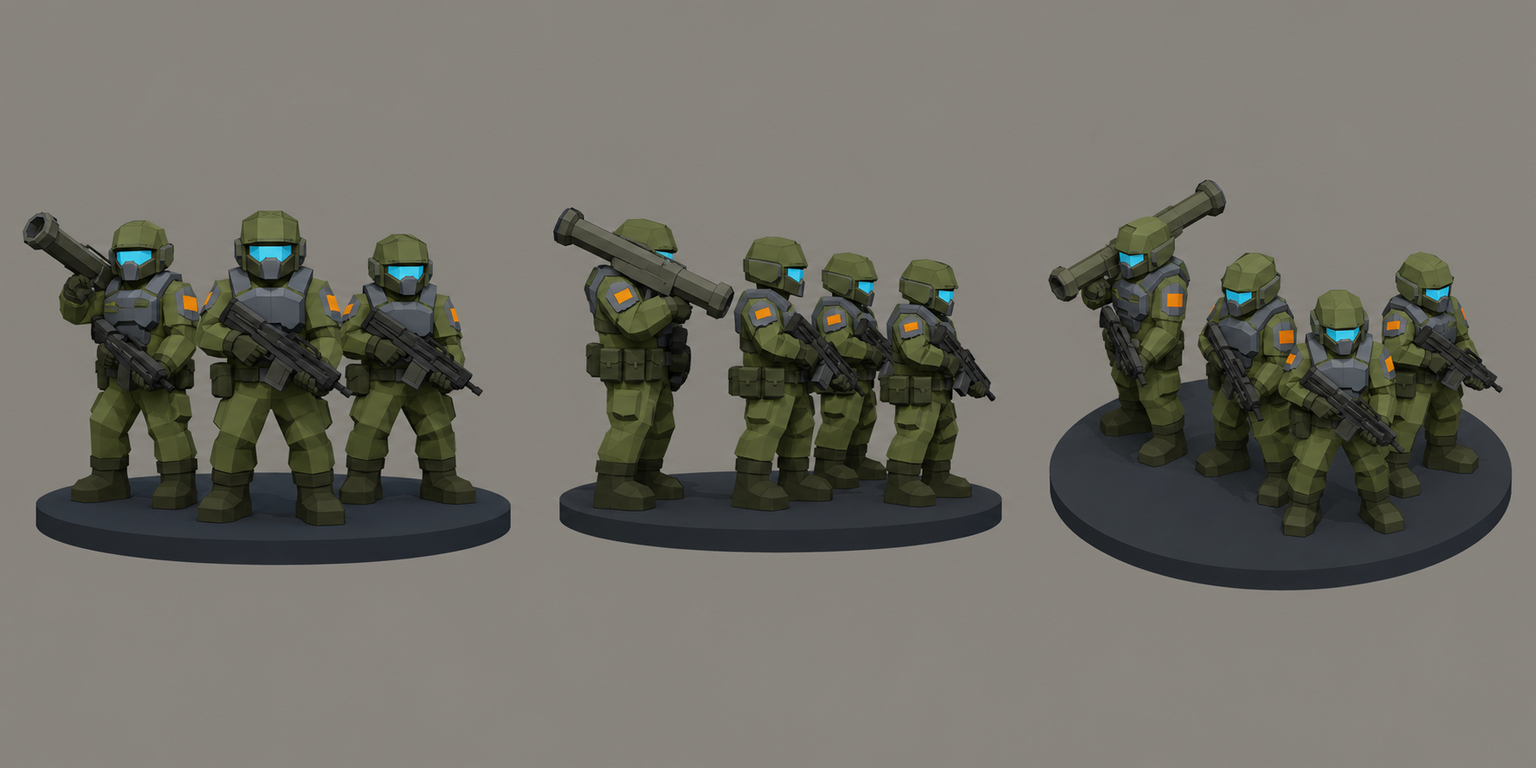
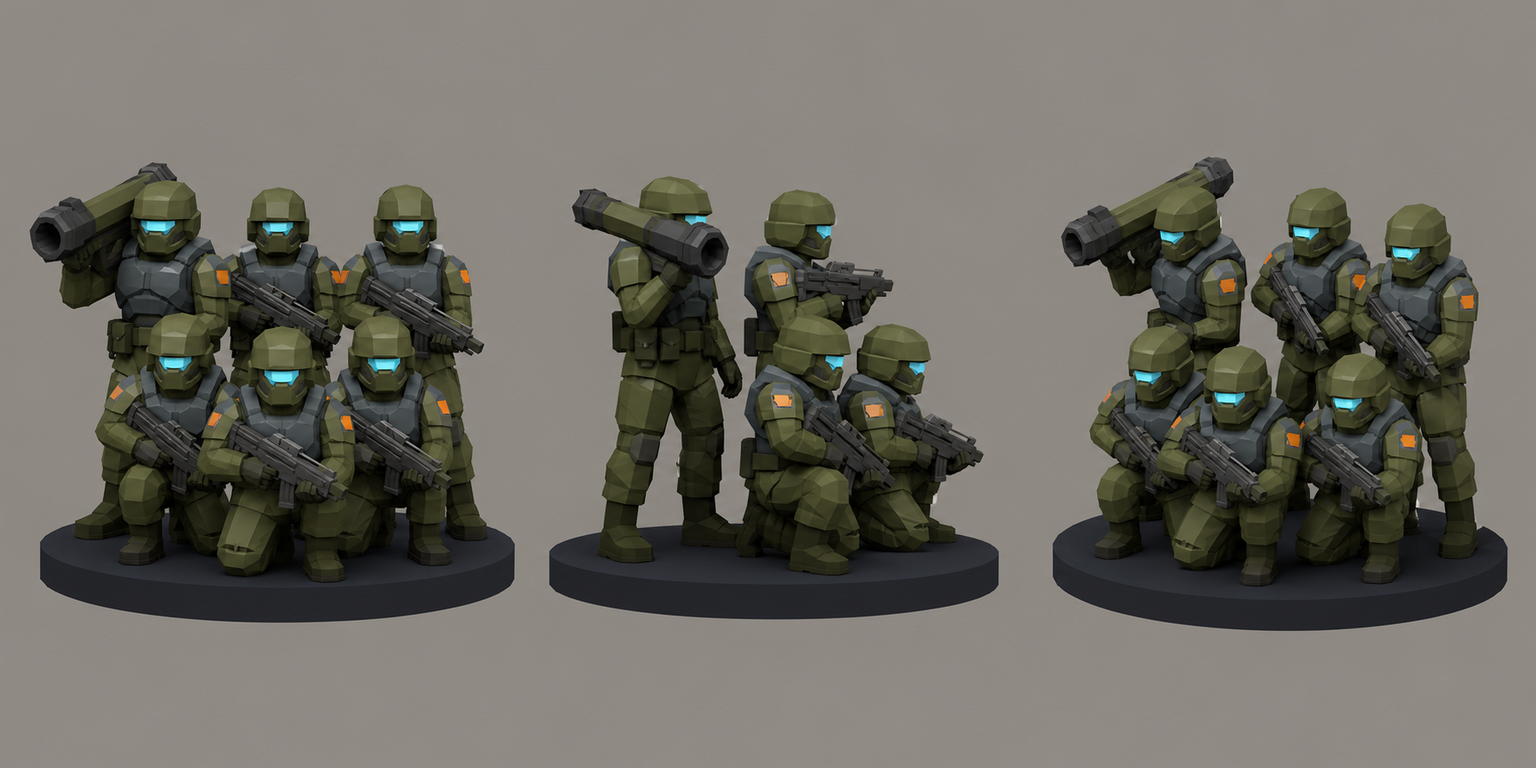
docs(art): regenerate infantry squad concept with kneeling front rank (#3)
Claude-Session: https://claude.ai/code/session_01H6iXQwxFz21caJkeThu5ff

diff --git a/docs/design/concepts/infantry-squad.md b/docs/design/concepts/infantry-squad.md
@@ -10,15 +10,15 @@
 ## Prompt
 
 ```
-Concept sheet for a TDF infantry squad token from a near-future Earth turn-based tactics game: five small soldiers standing together on one thin round base disc, arranged in a loose wedge with the leader front centre. Practical military kit: big helmets with small visors, body armour, rifles held ready; one soldier carries a long rocket launcher over the shoulder. Uniforms olive #6B7A3F with dark olive #45502A webbing and boots, armour plates cool grey #5B6573, tiny orange #F08A24 shoulder markings, visors #7FD1FF, base disc dark grey #2E3440. Chunky readable proportions, oversized helmets, no facial detail. Low-poly game model style, flat shading, hard edges, clean vector-like fills with no gradients or noise, plain neutral grey background #8E8A82, no text, no labels, no watermark, no logos. Wide landscape concept sheet showing the same design three times side by side: front view, side view, and isometric three-quarter view from 35 degrees above.
+Concept sheet for a TDF infantry squad token from a near-future Earth turn-based tactics game. Exactly five small soldiers stand together on one thin round dark base disc: two soldiers kneeling in the front row, three standing in the back row, arranged as a tight wedge with the leader front centre. Count carefully: five helmets, five rifles or launchers, one base disc. Practical military kit: big helmets with small cyan visors, body armour, rifles held ready; the back-left soldier carries a long rocket launcher over the shoulder. Uniforms olive #6B7A3F with dark olive #45502A webbing and boots, armour plates cool grey #5B6573, tiny orange #F08A24 shoulder markings, visors #7FD1FF, base disc dark grey #2E3440. Chunky readable proportions, oversized helmets, no facial detail. Low-poly game model style, flat shading, hard edges, clean vector-like fills with no gradients or noise, plain neutral grey background #8E8A82, no text, no labels, no watermark, no logos. Wide landscape concept sheet showing the same five-soldier group three times side by side: front view, side view, and isometric three-quarter view from 35 degrees above.
 ```
 
 ## Keep
 
-- Big helmets, cyan visors, orange shoulder patch, olive uniform with grey chest plate, single dark base disc. The rocket carrier reads instantly.
-- Chunky proportions survive downscaling.
+- Second pass. Kneeling front rank, standing rear rank, rocket carrier on the flank: this is the squad-token composition. Big helmets, cyan visors, orange shoulder patch, olive uniform with grey chest plate, one dark base disc. Chunky proportions survive downscaling.
 
 ## Change next pass
 
-- Generator drew three to four figures; the token is five. Regenerate with the count spelled out per figure ("exactly five soldiers: two kneeling in front, three standing behind").
-- Base disc should be thinner (0.05 u) and the figures should overlap less at the front.
+- The generator drew six figures even when told "exactly five"; the token is five and the placeholder GLB builds five. Treat the sixth as an extra reference pose, or crop.
+- Base disc should be thinner (0.05 u); rear-rank figures could stand a little further back so the wedge reads from above.
+- First pass (three to four figures) is kept in git history only.
